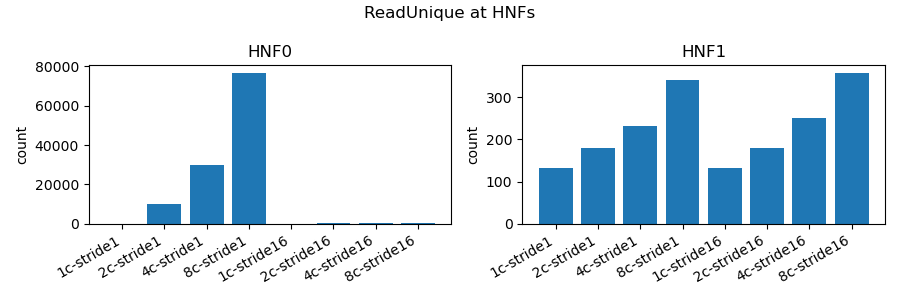
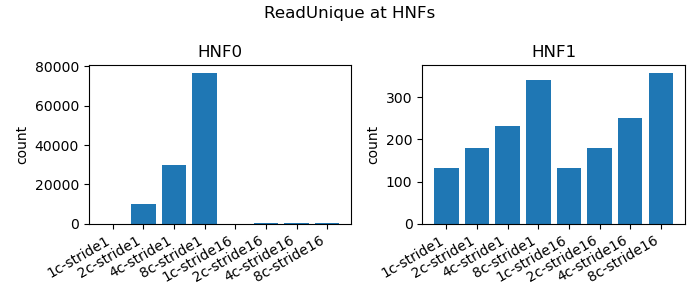
misc: add more l1 stats, automatic chart sizing

diff --git a/scrape-stats.py b/scrape-stats.py
@@ -75,9 +75,27 @@ plot_list = [
         ]
     },
     {
-        'title': 'CPU0 L1 D-Cache Snoop Traffic',
+        'title': 'CPU0 L1 D-Cache Traffic',
         'filename': 'l1-traffic.png',
         'subplots' : [
+            {
+                'title': 'SendReadShared',
+                #'y-scale': 'log',
+                're': r'system\.cpu[0]*\.l1d\.outTransLatHist\.SendReadShared::total\s+(\S+)',
+                'y-label': 'count'
+            },
+            {
+                'title': 'SendReadUnique',
+                #'y-scale': 'log',
+                're': r'system\.cpu[0]*\.l1d\.outTransLatHist\.SendReadUnique::total\s+(\S+)',
+                'y-label': 'count'
+            },
+            {
+                'title': 'SendCleanUnique',
+                #'y-scale': 'log',
+                're': r'system\.cpu[0]*\.l1d\.outTransLatHist\.SendCleanUnique::total\s+(\S+)',
+                'y-label': 'count'
+            },
             {
                 'title': 'SnpCleanInvalid',
                 'y-scale': 'log',
@@ -216,7 +234,8 @@ def make_plot(plot, outdir):
     grid_rows=1
     grid_cols=len(plot['subplots'])
 
-    plt.figure(figsize=(9, 3)) # todo: do we have to hardcode figure size?
+    width = 3.5 * len(plot['subplots'])
+    plt.figure(figsize=(width, 3)) # todo: do we have to hardcode figure size?
 
     col_idx=1
     #for ds in data:
